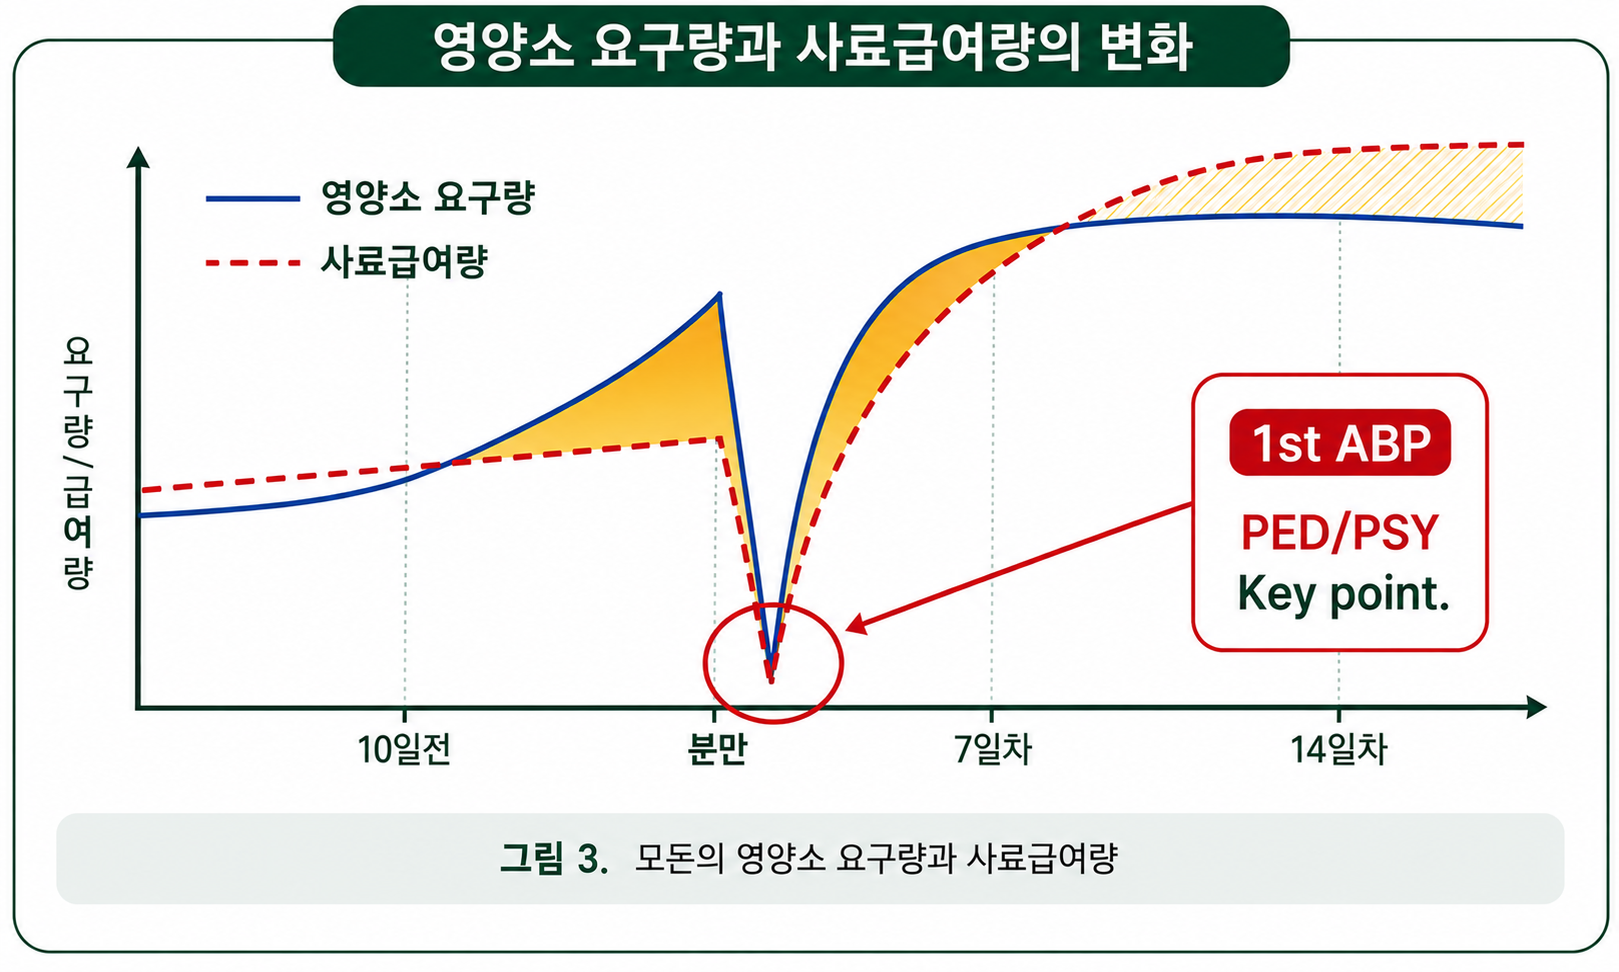
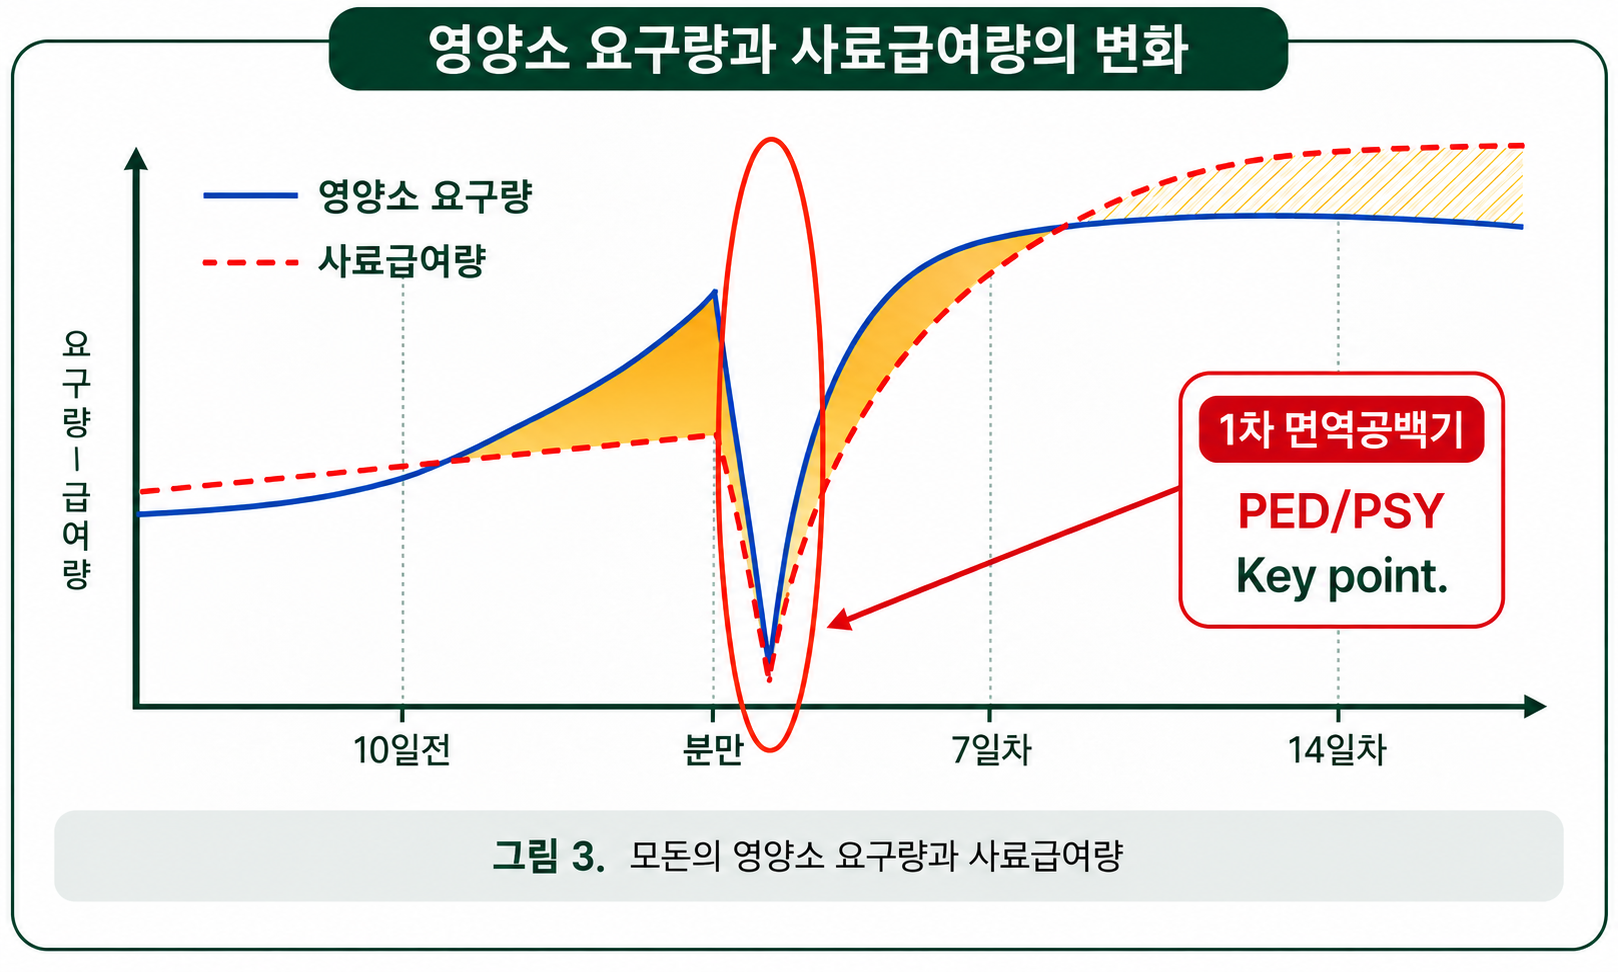
Add Codifarm usage guide

diff --git a/src/app/products/amino-f/page.tsx b/src/app/products/amino-f/page.tsx
@@ -110,7 +110,7 @@ export default function AminoFPage() {
             Sow Immune Solution
           </p>
           <h2 className="mt-4 text-4xl font-black leading-tight text-[#0f3d2e]">
-            모돈의 1차 ABP 관리를 위한
+            모돈의 1차 면역공백기 (Antibody Blank Point) 관리를 위한
             <br />
             H-LMP 저분자 단백질 솔루션
           </h2>
